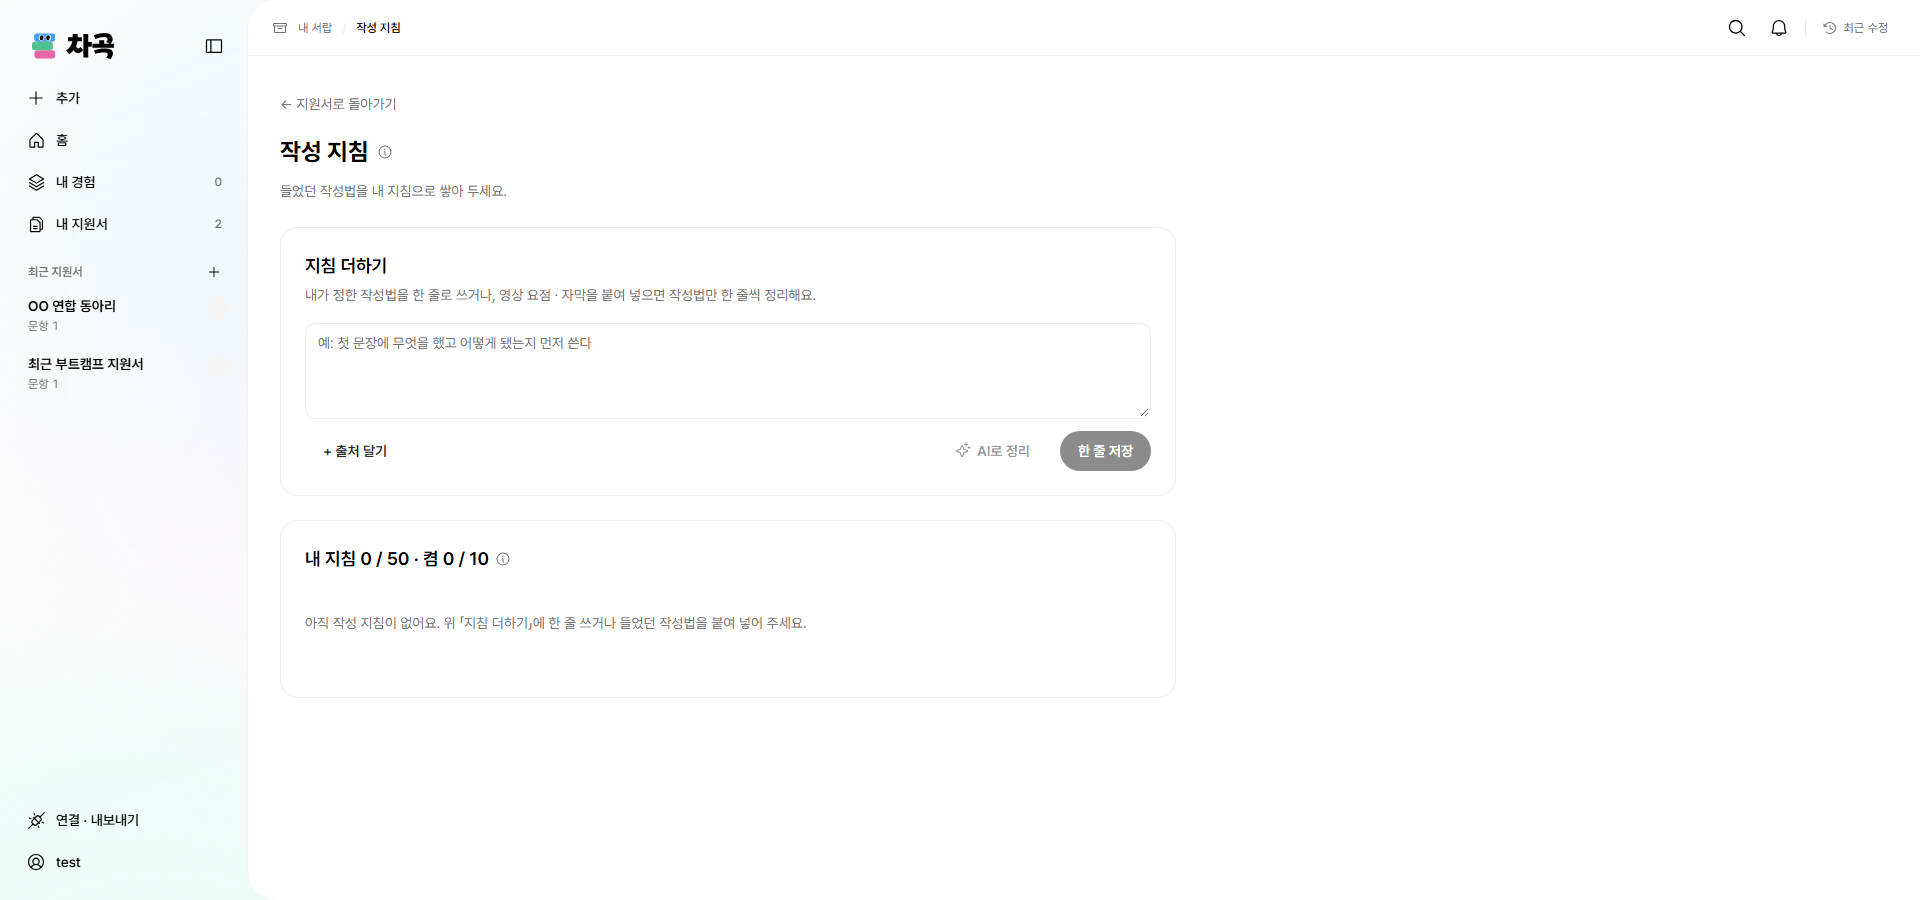
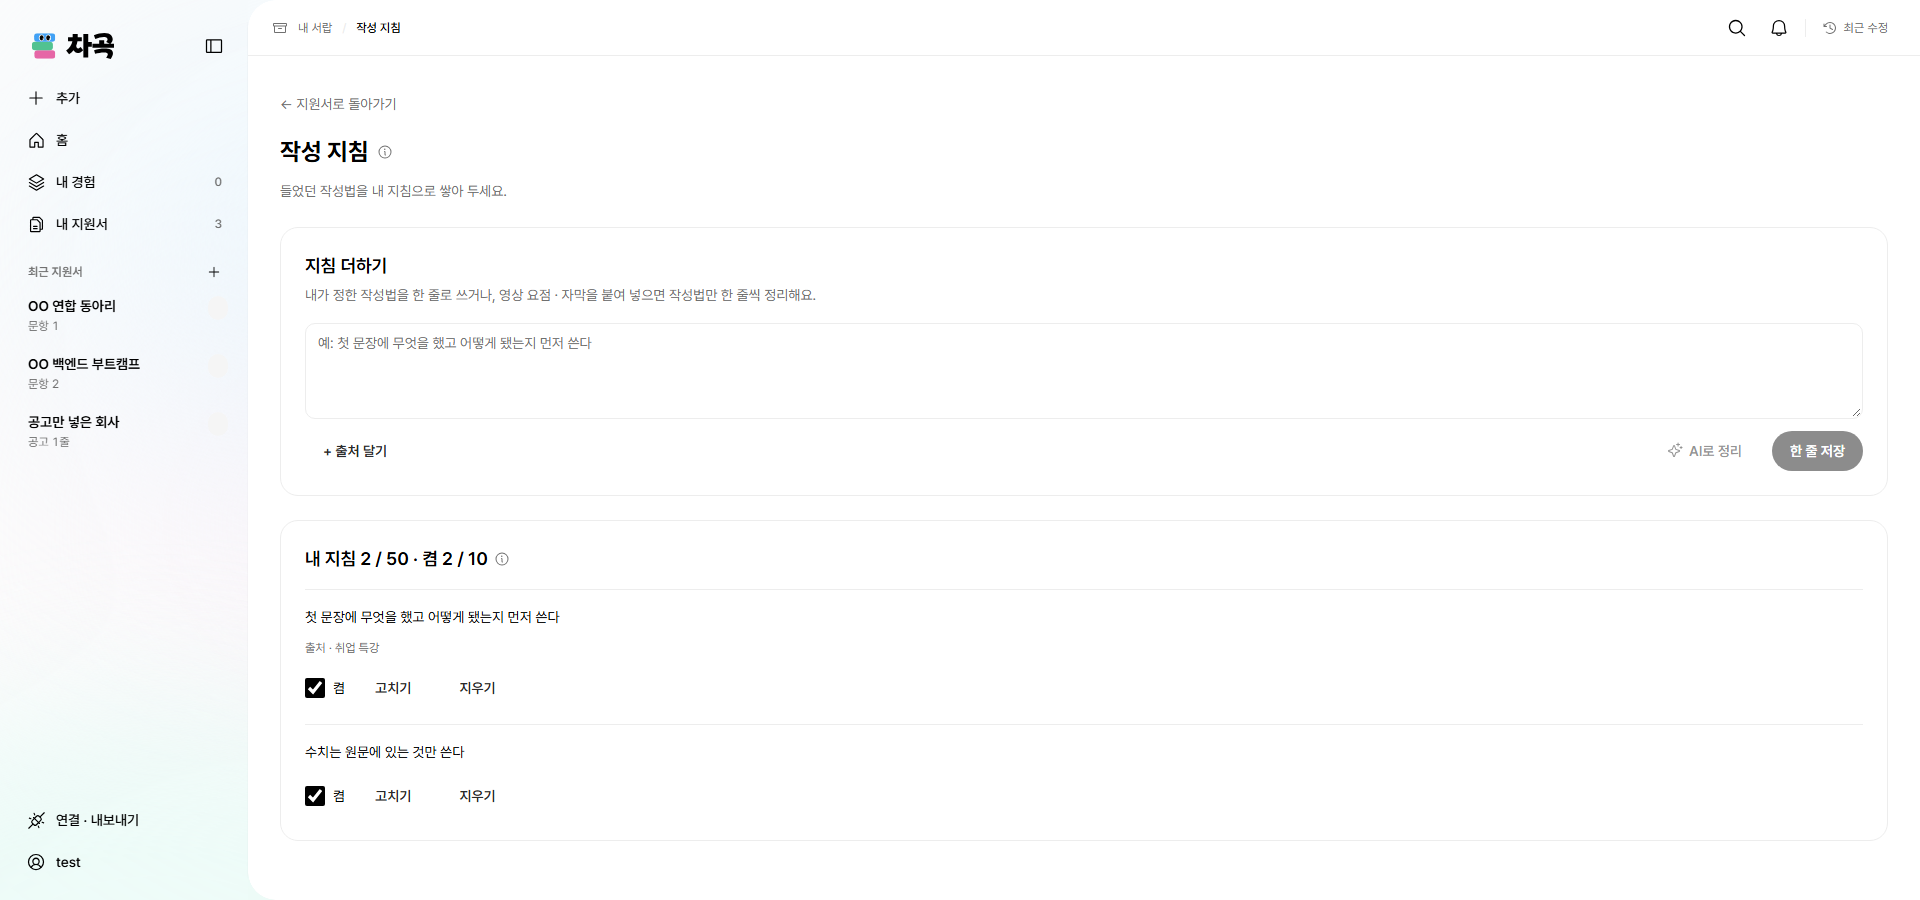
fix(ui): 내 지원서 · 연결 · 작성 지침은 폭 상한 없이 오른쪽 끝까지 — 내 경험처럼 (#594)
왼쪽 정렬만 하니 넓은 화면에서 오른쪽 절반이 비었다. 로그인 확인 중 뼈대도 같은 폭으로.

diff --git a/src/components/guidelines/guideline-screen.tsx b/src/components/guidelines/guideline-screen.tsx
@@ -78,9 +78,9 @@ export function GuidelineScreen() {
 
   return <>
     <AppHeader activePage="guidelines" />
-    {/* 본문은 왼쪽 정렬 · 왼쪽 여백은 내 경험과 같게 — 가운데 정렬은 홈만(FE#594) */}
+    {/* 본문은 왼쪽 정렬 · 여백은 내 경험과 같게, 폭 상한 없이 오른쪽 끝까지 — 가운데 정렬은 홈만(FE#594) */}
     <main className="w-full min-w-0 flex-1 px-4.5 py-7 lg:px-8">
-      <div className="grid max-w-4xl min-w-0 gap-6">
+      <div className="grid min-w-0 gap-6">
         <header className="grid gap-3">
           <Link href="/questions" className="inline-flex min-h-11 lg:min-h-10 items-center justify-self-start text-sm text-muted hover:underline">← 지원서로 돌아가기</Link>
           <div className="flex items-center gap-1"><h1 className="m-0 text-2xl font-bold">작성 지침</h1><InfoTip label="작성 지침">켠 지침은 모든 답변 초안의 문체 · 구성 · 강조에 써요. 근거에 없는 사실은 만들지 않아요.</InfoTip></div>

diff --git a/src/components/connections/connection-screen.tsx b/src/components/connections/connection-screen.tsx
@@ -177,8 +177,8 @@ export function ConnectionScreen() {
 
   return <>
     <AppHeader activePage="connections" />
-    {/* 본문은 왼쪽 정렬 · 왼쪽 여백은 내 경험과 같게 — 가운데 정렬은 홈만(FE#594) */}
-    <main className="w-full max-w-3xl px-4.5 py-8 lg:px-8 lg:py-12">
+    {/* 본문은 왼쪽 정렬 · 여백은 내 경험과 같게, 폭 상한 없이 오른쪽 끝까지 — 가운데 정렬은 홈만(FE#594) */}
+    <main className="w-full px-4.5 py-8 lg:px-8 lg:py-12">
       <h1 className="text-display font-bold tracking-tight">연결 · 내보내기</h1>
       <p className="mt-2 text-sm leading-relaxed text-muted">쌓아 둔 경험을 필요한 곳에서 꺼내 쓰세요.</p>
       {mock && <p role="note" className="mt-6 rounded-sm border border-hairline bg-surface-soft p-4 text-sm leading-relaxed">

diff --git a/src/components/applications/applications-screen.tsx b/src/components/applications/applications-screen.tsx
@@ -40,8 +40,8 @@ export function ApplicationsScreen() {
   return (
     <>
       <AppHeader activePage="applications" applicationList={list} />
-      {/* 본문은 왼쪽 정렬 · 왼쪽 여백은 내 경험과 같게 — 가운데 정렬은 홈만(FE#594) */}
-      <main className="w-full max-w-4xl px-4.5 py-8 lg:px-8 lg:py-12">
+      {/* 본문은 왼쪽 정렬 · 여백은 내 경험과 같게, 폭 상한 없이 오른쪽 끝까지 — 가운데 정렬은 홈만(FE#594) */}
+      <main className="w-full px-4.5 py-8 lg:px-8 lg:py-12">
         <div className="flex items-center justify-between gap-3">
           <h1 className="m-0 text-display font-bold tracking-tight">내 지원서</h1>
           <Button variant="secondary" onClick={newApplication} className="max-lg:h-11"><PlusIcon aria-hidden="true" />새 지원서</Button>

diff --git a/src/components/auth/auth-checking.tsx b/src/components/auth/auth-checking.tsx
@@ -12,8 +12,8 @@ import { cn } from "@/lib/utils";
 const navRow = "flex h-11 w-full shrink-0 items-center gap-2.5 px-3 lg:h-10";
 // 그 밖의 화면 뼈대 — 실제 화면 본문과 같은 폭 · 위 여백. 왼쪽 여백은 모두 내 경험과 같다(FE#594)
 const PAGE_FRAME: Record<string, string> = {
-  "/applications": "max-w-4xl pt-8 lg:pt-12", "/connections": "max-w-3xl pt-8 lg:pt-12",
-  "/guidelines": "max-w-4xl pt-7", "/questions": "max-w-[1280px] pt-5 lg:pt-6",
+  "/applications": "pt-8 lg:pt-12", "/connections": "pt-8 lg:pt-12",
+  "/guidelines": "pt-7", "/questions": "max-w-[1280px] pt-5 lg:pt-6",
 };
 
 /** 로그인을 확인하는 동안(FE#402) — 흰 화면에 글 한 줄 대신 앱 틀(사이드바 · 위 막대 · 탭바)과 그 주소 화면의 뼈대를 그린다.
